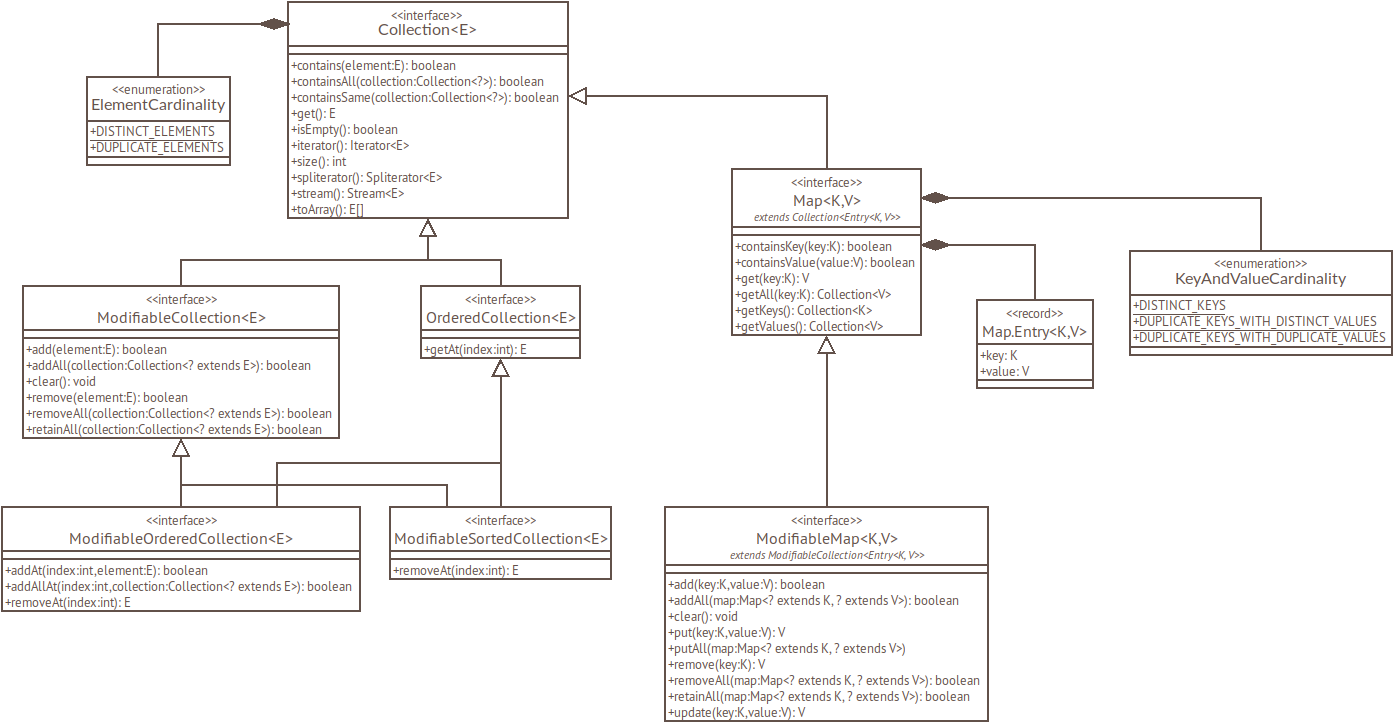
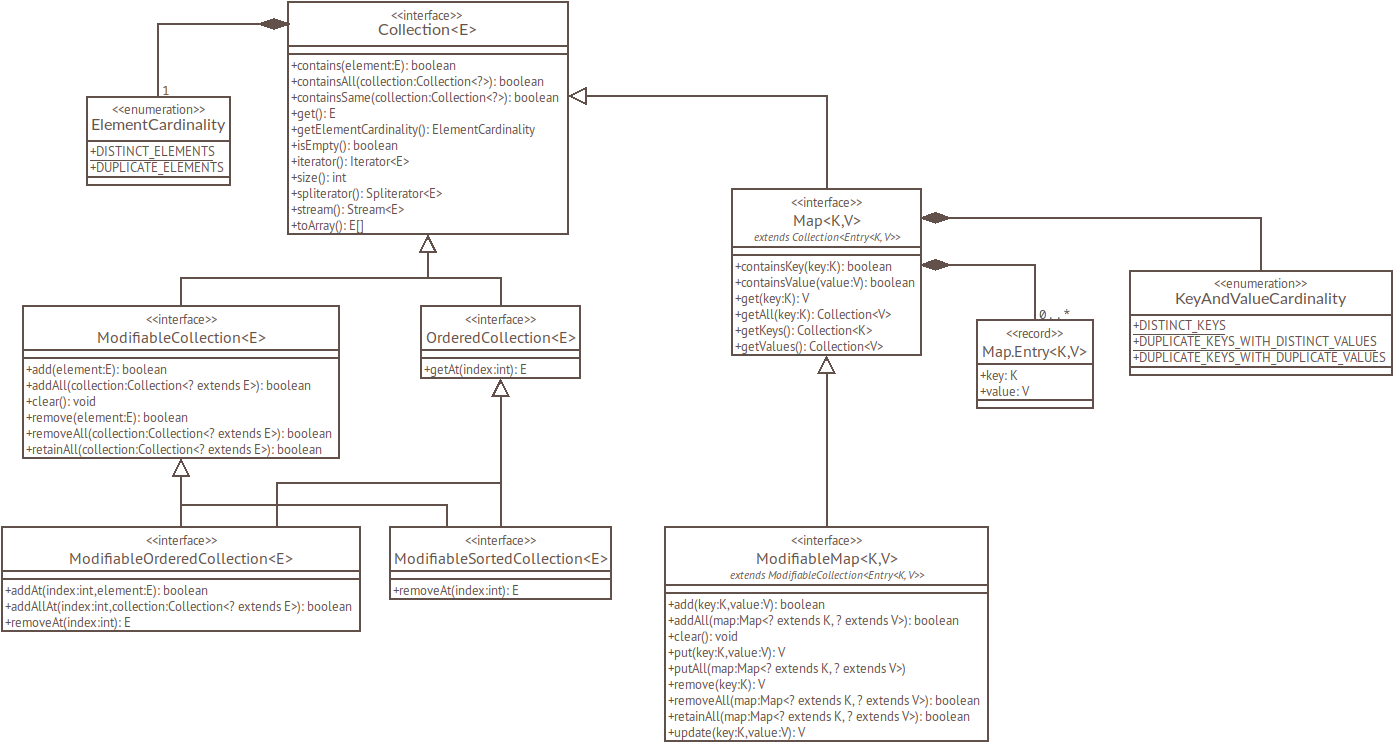
Issue #7: Implemented ElementCardinality in Collection

diff --git a/src/main/java/net/filipvanlaenen/kolektoj/array/ArrayCollection.java b/src/main/java/net/filipvanlaenen/kolektoj/array/ArrayCollection.java
@@ -1,5 +1,7 @@
 package net.filipvanlaenen.kolektoj.array;
 
+import static net.filipvanlaenen.kolektoj.Collection.ElementCardinality.DUPLICATE_ELEMENTS;
+
 import java.util.Iterator;
 import java.util.Spliterator;
 
@@ -12,18 +14,13 @@ import net.filipvanlaenen.kolektoj.Collection;
  */
 public final class ArrayCollection<E> implements Collection<E> {
     /**
+     * The element cardinality.
+     */
+    private final ElementCardinality elementCardinality;
+    /**
      * An array with the elements.
      */
     private final E[] elements;
-
-    /**
-     * Constructs a collection with the given elements.
-     *
-     * @param elements The elements of the collection.
-     */
-    public ArrayCollection(final E... elements) {
-        this.elements = elements.clone();
-    }
 
     /**
      * Constructs a collection from another collection, with the same elements.
@@ -31,7 +28,23 @@ public final class ArrayCollection<E> implements Collection<E> {
      * @param source The collection to create a new collection from.
      */
     public ArrayCollection(final Collection<E> source) {
+        elementCardinality = source.getElementCardinality();
         elements = source.toArray();
+    }
+
+    /**
+     * Constructs a collection with the given elements.
+     *
+     * @param elements The elements of the collection.
+     */
+    public ArrayCollection(final E... elements) {
+        elementCardinality = DUPLICATE_ELEMENTS;
+        this.elements = elements.clone();
+    }
+
+    public ArrayCollection(final ElementCardinality elementCardinality, final E... elements) {
+        this.elementCardinality = elementCardinality;
+        this.elements = elements.clone();
     }
 
     @Override
@@ -73,6 +86,11 @@ public final class ArrayCollection<E> implements Collection<E> {
         } else {
             return elements[0];
         }
+    }
+
+    @Override
+    public ElementCardinality getElementCardinality() {
+        return elementCardinality;
     }
 
     @Override

diff --git a/src/main/java/net/filipvanlaenen/kolektoj/Collection.java b/src/main/java/net/filipvanlaenen/kolektoj/Collection.java
@@ -13,8 +13,18 @@ import net.filipvanlaenen.kolektoj.array.ArrayCollection;
  * @param <E> The element type.
  */
 public interface Collection<E> extends Cloneable, Iterable<E> {
-    public enum ElementCardinality {
-        DISTINCT_ELEMENTS, DUPLICATE_ELEMENTS
+    /**
+     * Enumeration listing the options for the element cardinality in collections.
+     */
+    enum ElementCardinality {
+        /**
+         * Only distinct elements allowed.
+         */
+        DISTINCT_ELEMENTS,
+        /**
+         * Duplicate elements allowed.
+         */
+        DUPLICATE_ELEMENTS
     }
 
     /**
@@ -36,6 +46,18 @@ public interface Collection<E> extends Cloneable, Iterable<E> {
      */
     static <E> Collection<E> of(final E... elements) {
         return new ArrayCollection<E>(elements);
+    }
+
+    /**
+     * Returns a new collection with the specified element cardinality and the elements.
+     *
+     * @param <E>                The element type.
+     * @param elementCardinality The element cardinality.
+     * @param elements           The elements for the new collection.
+     * @return A new collection with the specified element cardinality and the elements.
+     */
+    static <E> Collection<E> of(final ElementCardinality elementCardinality, final E... elements) {
+        return new ArrayCollection<E>(elementCardinality, elements);
     }
 
     /**
@@ -75,6 +97,13 @@ public interface Collection<E> extends Cloneable, Iterable<E> {
      * @throws IndexOutOfBoundsException Thrown if the collection is empty.
      */
     E get() throws IndexOutOfBoundsException;
+
+    /**
+     * Returns the element cardinality of the collection.
+     *
+     * @return The element cardinality.
+     */
+    ElementCardinality getElementCardinality();
 
     /**
      * Returns whether the collection is empty or not.

diff --git a/src/test/java/net/filipvanlaenen/kolektoj/CollectionTest.java b/src/test/java/net/filipvanlaenen/kolektoj/CollectionTest.java
@@ -3,6 +3,7 @@ package net.filipvanlaenen.kolektoj;
 import static org.junit.jupiter.api.Assertions.assertEquals;
 import static org.junit.jupiter.api.Assertions.assertFalse;
 import static org.junit.jupiter.api.Assertions.assertTrue;
+import static net.filipvanlaenen.kolektoj.Collection.ElementCardinality.DISTINCT_ELEMENTS;
 
 import org.junit.jupiter.api.Test;
 
@@ -33,6 +34,14 @@ public class CollectionTest {
     @Test
     public void isEmptyShouldReturnFalseForACollectionContainingAnElement() {
         assertFalse(Collection.of(1).isEmpty());
+    }
+
+    /**
+     * Verifies that a collection with a specific element cardinality receives that element cardinality.
+     */
+    @Test
+    public void ofWithElementCardinalityShouldReturnACollectionWithTheElementCardinality() {
+        assertEquals(DISTINCT_ELEMENTS, Collection.of(DISTINCT_ELEMENTS, 1).getElementCardinality());
     }
 
     /**

diff --git a/src/main/java/net/filipvanlaenen/kolektoj/hash/ModifiableHashMap.java b/src/main/java/net/filipvanlaenen/kolektoj/hash/ModifiableHashMap.java
@@ -8,6 +8,7 @@ import net.filipvanlaenen.kolektoj.Collection;
 import net.filipvanlaenen.kolektoj.Map;
 import net.filipvanlaenen.kolektoj.ModifiableCollection;
 import net.filipvanlaenen.kolektoj.ModifiableMap;
+import net.filipvanlaenen.kolektoj.Collection.ElementCardinality;
 import net.filipvanlaenen.kolektoj.array.ArrayCollection;
 import net.filipvanlaenen.kolektoj.array.ArrayIterator;
 import net.filipvanlaenen.kolektoj.array.ArraySpliterator;
@@ -285,6 +286,12 @@ public final class ModifiableHashMap<K, V> implements ModifiableMap<K, V> {
             throw new IllegalArgumentException("Map doesn't contain entries with the key " + key + ".");
         }
         return result;
+    }
+
+    @Override
+    public ElementCardinality getElementCardinality() {
+        // TODO: Auto-generated method stub
+        return null;
     }
 
     @Override

diff --git a/src/main/java/net/filipvanlaenen/kolektoj/hash/HashMap.java b/src/main/java/net/filipvanlaenen/kolektoj/hash/HashMap.java
@@ -7,6 +7,7 @@ import java.util.Spliterator;
 import net.filipvanlaenen.kolektoj.Collection;
 import net.filipvanlaenen.kolektoj.Map;
 import net.filipvanlaenen.kolektoj.ModifiableCollection;
+import net.filipvanlaenen.kolektoj.Collection.ElementCardinality;
 import net.filipvanlaenen.kolektoj.array.ArrayCollection;
 import net.filipvanlaenen.kolektoj.array.ArrayIterator;
 import net.filipvanlaenen.kolektoj.array.ArraySpliterator;
@@ -185,6 +186,12 @@ public final class HashMap<K, V> implements Map<K, V> {
             throw new IllegalArgumentException("Map doesn't contain entries with the key " + key + ".");
         }
         return result;
+    }
+
+    @Override
+    public ElementCardinality getElementCardinality() {
+        // TODO: Auto-generated method stub
+        return null;
     }
 
     @Override

diff --git a/src/main/java/net/filipvanlaenen/kolektoj/array/ModifiableOrderedArrayCollection.java b/src/main/java/net/filipvanlaenen/kolektoj/array/ModifiableOrderedArrayCollection.java
@@ -6,6 +6,7 @@ import java.util.Spliterator;
 
 import net.filipvanlaenen.kolektoj.Collection;
 import net.filipvanlaenen.kolektoj.ModifiableOrderedCollection;
+import net.filipvanlaenen.kolektoj.Collection.ElementCardinality;
 
 /**
  * An array backed implementation of the {@link net.filipvanlaenen.kolektoj.ModifiableOrderedCollection} interface.
@@ -169,6 +170,12 @@ public final class ModifiableOrderedArrayCollection<E> implements ModifiableOrde
         } else {
             return elements[index];
         }
+    }
+
+    @Override
+    public ElementCardinality getElementCardinality() {
+        // TODO: Auto-generated method stub
+        return null;
     }
 
     @Override

diff --git a/src/main/java/net/filipvanlaenen/kolektoj/array/ModifiableArrayCollection.java b/src/main/java/net/filipvanlaenen/kolektoj/array/ModifiableArrayCollection.java
@@ -6,6 +6,7 @@ import java.util.Spliterator;
 
 import net.filipvanlaenen.kolektoj.Collection;
 import net.filipvanlaenen.kolektoj.ModifiableCollection;
+import net.filipvanlaenen.kolektoj.Collection.ElementCardinality;
 
 /**
  * An array backed implementation of the {@link net.filipvanlaenen.kolektoj.ModifiableCollection} interface.
@@ -122,6 +123,12 @@ public final class ModifiableArrayCollection<E> implements ModifiableCollection<
         } else {
             return elements[0];
         }
+    }
+
+    @Override
+    public ElementCardinality getElementCardinality() {
+        // TODO: Auto-generated method stub
+        return null;
     }
 
     @Override

diff --git a/src/main/java/net/filipvanlaenen/kolektoj/array/OrderedArrayCollection.java b/src/main/java/net/filipvanlaenen/kolektoj/array/OrderedArrayCollection.java
@@ -6,6 +6,7 @@ import java.util.Spliterator;
 
 import net.filipvanlaenen.kolektoj.Collection;
 import net.filipvanlaenen.kolektoj.OrderedCollection;
+import net.filipvanlaenen.kolektoj.Collection.ElementCardinality;
 
 /**
  * An array backed implementation of the {@link net.filipvanlaenen.kolektoj.OrderedCollection} interface.
@@ -97,6 +98,12 @@ public final class OrderedArrayCollection<E> implements OrderedCollection<E> {
         } else {
             return elements[index];
         }
+    }
+
+    @Override
+    public ElementCardinality getElementCardinality() {
+        // TODO: Auto-generated method stub
+        return null;
     }
 
     @Override
